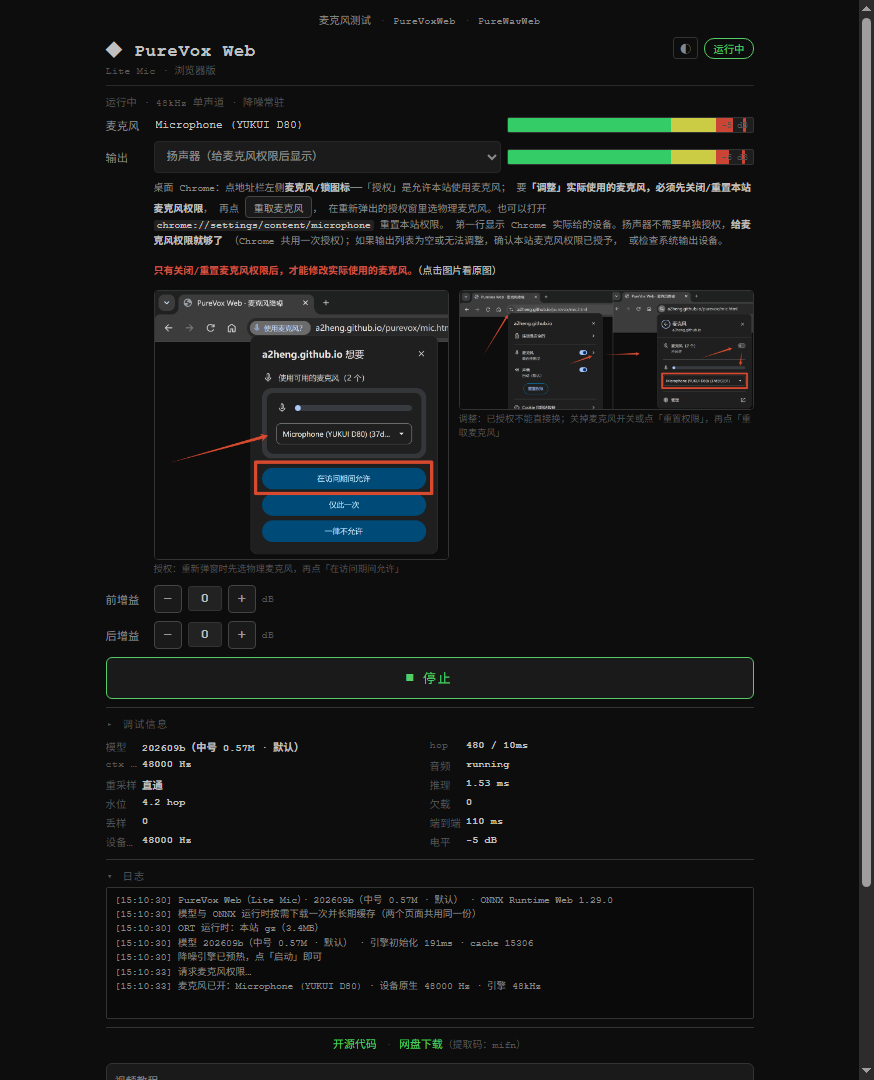
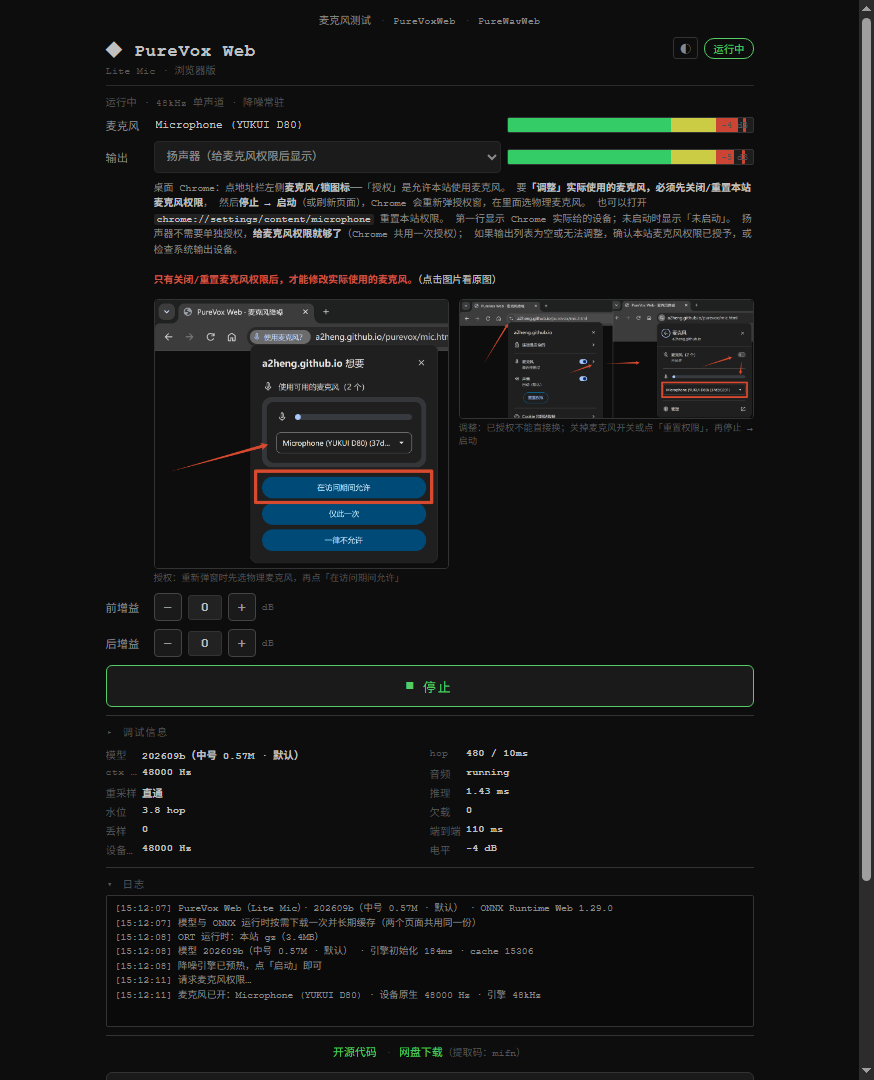
purevox: 删掉误导的「重取麦克风」按钮；改为重置权限后停止→启动
- Chrome 已授权时 getUserMedia 不会再弹窗，原按钮点了只会 return，确实误导
- 说明改成：关闭/重置权限后停止→启动（或刷新），让 Chrome 重新弹授权窗选设备
- 第一行未启动时显示「未启动」，不再是空白/--
- 授权/调整说明图保持一行两列，点击看原图

diff --git a/purevox/mic.html b/purevox/mic.html
@@ -525,7 +525,7 @@ body {
     <!-- 第一行：Chrome 实际交给网页的麦克风（只读）+ 输入 VU -->
     <div class="row" id="cur-mic-row">
         <span class="row-l">麦克风</span>
-        <span id="cur-mic-name" title="">--</span>
+        <span id="cur-mic-name" title="">未启动</span>
         <div id="vu-meter">
             <div class="vu-track">
                 <div class="vu-zone" style="left:0%;width:66.67%;background:var(--vu-bg1);"></div>
@@ -560,14 +560,13 @@ body {
             </div>
         </div>
         <div id="mic-hint">
-            桌面 Chrome：点地址栏左侧<b>麦克风/锁图标</b>——「授权」是允许本站使用麦克风；
+            桌面 Chrome：点地址栏左侧<b>麦克风/锁图标</b>——「授权」是允许本站使用麦克风。
             要<b>「调整」实际使用的麦克风，必须先关闭/重置本站麦克风权限</b>，
-            再点 <button id="in-reget" class="mini" title="重新申请麦克风">重取麦克风</button>，
-            在重新弹出的授权窗里选物理麦克风。也可以打开
-            <code>chrome://settings/content/microphone</code> 重置本站权限。
-            第一行显示 Chrome 实际给的设备。扬声器不需要单独授权，<b>给麦克风权限就够了</b>
-            （Chrome 共用一次授权）；如果输出列表为空或无法调整，确认本站麦克风权限已授予，
-            或检查系统输出设备。
+            然后<b>停止 → 启动</b>（或刷新页面），Chrome 会重新弹授权窗，在里面选物理麦克风。
+            也可以打开 <code>chrome://settings/content/microphone</code> 重置本站权限。
+            第一行显示 Chrome 实际给的设备；未启动时显示「未启动」。
+            扬声器不需要单独授权，<b>给麦克风权限就够了</b>（Chrome 共用一次授权）；
+            如果输出列表为空或无法调整，确认本站麦克风权限已授予，或检查系统输出设备。
         </div>
         <div id="mic-help">
             <div id="mic-help-note">
@@ -583,7 +582,7 @@ body {
                 <a href="assets/help/change.png" target="_blank" rel="noopener">
                     <img src="assets/help/change.png" alt="Chrome 调整：关闭/重置权限后换麦克风" loading="lazy">
                 </a>
-                <figcaption>调整：已授权不能直接换；关掉麦克风开关或点「重置权限」，再点「重取麦克风」</figcaption>
+                <figcaption>调整：已授权不能直接换；关掉麦克风开关或点「重置权限」，再停止 → 启动</figcaption>
             </figure>
         </div>
         <div class="row">
@@ -2371,28 +2370,6 @@ window.PV.ASSETS = Object.freeze({
     function setupDevices() {
         app.outRow = PV.session.setupOutputRow('mic', app.cfg,
             (id) => (app.pipeline ? app.pipeline.setSinkId(id) : null));
-        const reget = PV.ui.el('in-reget');
-        if (reget) {
-            reget.addEventListener('click', async () => {
-                let state = '';
-                try {
-                    const st = await navigator.permissions.query({ name: 'microphone' });
-                    state = st.state;
-                } catch (e) { /* 浏览器不支持查询 */ }
-                if (state === 'granted') {
-                    PV.ui.log('Chrome 已记住本站麦克风权限，不会再次弹窗选设备（所以第二次点没反应）。' +
-                        '要换麦克风：先点地址栏左侧麦克风图标 → 关闭/重置权限，再点「重取麦克风」。');
-                    return;
-                }
-                if (state === 'denied') {
-                    PV.ui.log('本站麦克风权限被拒绝：点地址栏左侧麦克风图标 → 允许，再点「重取麦克风」。');
-                    return;
-                }
-                PV.ui.log('重新申请麦克风…');
-                if (app.running) await stop();
-                await start();
-            });
-        }
     }
 
     async function start() {
@@ -2411,11 +2388,11 @@ window.PV.ASSETS = Object.freeze({
             PV.ui.log('麦克风不可用：' + (e && e.name ? e.name + ' ' + e.message : e));
             if (e && (e.name === 'OverconstrainedError' || e.name === 'NotFoundError')) {
                 PV.ui.log('Chrome 可能把本站麦克风固定成了别的设备。要换设备：' +
-                    '先关闭/重置本站麦克风权限，再点「重取麦克风」重新授权选物理麦克风。');
+                    '先关闭/重置本站麦克风权限，再停止 → 启动（或刷新页面）重新授权选物理麦克风。');
                 PV.ui.log('设置页：chrome://settings/content/microphone');
             } else if (e && e.name === 'NotAllowedError') {
                 PV.ui.log('麦克风权限被拒绝：点地址栏左侧的麦克风图标 → 允许，' +
-                    '然后点「重取」。');
+                    '然后再点「启动」。');
             }
             return;
         }
@@ -2429,7 +2406,7 @@ window.PV.ASSETS = Object.freeze({
             PV.ui.log('Chrome 实际打开的是虚拟设备「' + actualLabel +
                 '」——它没有物理麦克风输入，只会得到全 0。');
             PV.ui.log('要换麦克风：先点地址栏左侧麦克风/锁图标 → 关闭/重置本站麦克风权限，' +
-                '再点「重取麦克风」，在重新弹出的授权窗里选物理麦克风。');
+                '再停止 → 启动（或刷新页面），在重新弹出的授权窗里选物理麦克风。');
             PV.ui.log('设置页：chrome://settings/content/microphone');
             stream.getTracks().forEach((t) => t.stop());
             app.stream = null;
@@ -2457,7 +2434,7 @@ window.PV.ASSETS = Object.freeze({
                     if (peak === 0) {
                         PV.ui.log('麦克风连续返回全 0（不是小声，是没数据）：' +
                             '检查麦克风硬件静音键 / Windows 麦克风隐私开关 / 是否被其他软件独占；' +
-                            '或点地址栏左侧麦克风图标换设备，再点「重取麦克风」。');
+                            '或重置本站麦克风权限后再停止 → 启动。');
                     } else {
                         PV.ui.log('输入电平只有 ' + db.toFixed(0) +
                             ' dB（说话时应高于 -40 dB）：检查麦克风静音/系统增益，' +
@@ -2545,7 +2522,7 @@ window.PV.ASSETS = Object.freeze({
         PV.ui.running(false, '启动');
         PV.ui.state('已停止', 'idle');
         PV.ui.status('已停止');
-        PV.ui.setMic('--');
+        PV.ui.setMic('未启动');
         PV.ui.resetLevel();
     }
 
